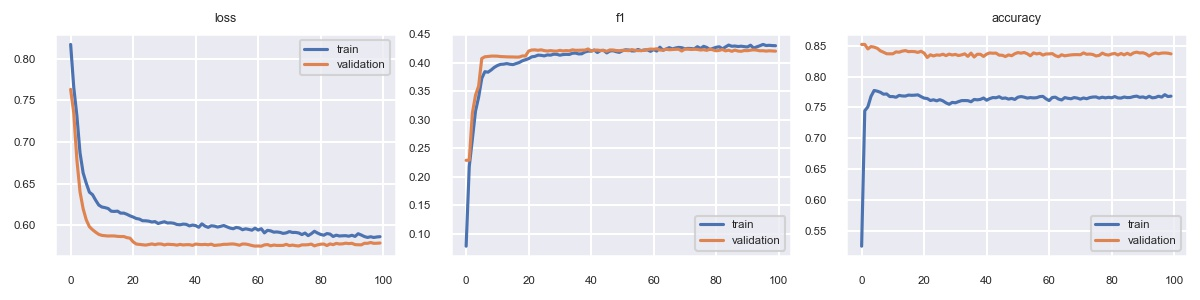
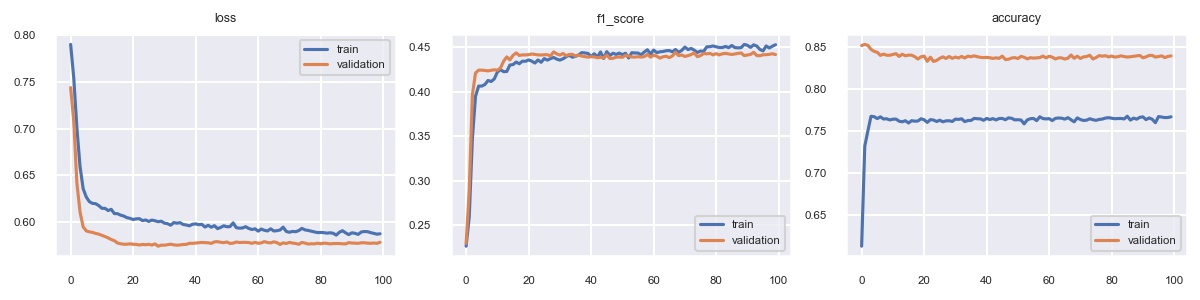
update single rnn build
update single rnn build  and example

diff --git a/behavior_model_func.py b/behavior_model_func.py
@@ -162,6 +162,25 @@ def one_hot_decode(encoded_seq):
 #     pred = [np.random.multinomial(1,vector) for vector in encoded_seq]
 #     return [np.argmax(vector) for vector in pred] # returns the index with the max value
 
+# function to adjust the prediction prob between 0 and 1, due to the estimatio of the f1 loss function, sometimes class prob predictions don't exactly sum to 1
+def prob_adjust(y_prob):
+    """
+    ensure probabiltiies fall between 0 and 1 by subtracting small number (0.0001) from the largest probability
+
+    Parameters
+    ----------
+    y_prob : predicted prob of classes
+
+    Returns
+    -------
+    y_prob : adjusted predicted prob of classes
+
+    """
+    y_max = tuple(one_hot_decode(y_prob)) # get max prob class
+    y_adjust = y_prob[range(y_prob.shape[0]), y_max] - 0.00001 # subtract small number from max prob
+    y_prob[range(y_prob.shape[0]), y_max] = y_adjust # replace adjusted prob into data
+    return y_prob # return adjusted prob
+
 ########################
 #### Model building ####
 ########################
@@ -422,9 +441,10 @@ def eval_f1_iter(model, params, train_X, train_y, test_X, test_y, patience=50, m
 #    # avg_val = np.mean(eval_run,axis=0)
 #     return eval_run, np.nan, val_loss, np.nan, train_loss
 
-def build_rnn(train_X, train_y, neurons_n=10, hidden_n=10, lr_rate=0.001, d_rate = 0.2, layers = 1, mtype = 'LSTM'):
+def build_rnn(train_X, train_y, neurons_n=10, hidden_n=10, lr_rate=0.001, d_rate = 0.2, layers = 1, mtype = 'LSTM', loss = 'CCE'):
     """
     Vanilla LSTM for single timestep output prediction (one-to-one or many-to-one)
+    
     Parameters
     ----------
     neurons_n : int,number of neurons, (the default is 10).
@@ -433,6 +453,8 @@ def build_rnn(train_X, train_y, neurons_n=10, hidden_n=10, lr_rate=0.001, d_rate
     d_rate : float, drop out rate (the default is 0.2).
     layers: 1 
     mtype: string, model type (LSTM or GRU only, default is LSTM)
+    loss: string, default is 'CCE' for categorical cross-entropy, other option is 'f1' for f1 loss
+    
     Returns
     -------
     model : model
@@ -451,8 +473,58 @@ def build_rnn(train_X, train_y, neurons_n=10, hidden_n=10, lr_rate=0.001, d_rate
         model.add(Dense(units = hidden_n, activation = 'relu', kernel_initializer =  'he_uniform')) # add dense layer
         model.add(Dropout(rate= d_rate)) # add dropout
     model.add(Dense(units = targets, activation = "softmax", name = 'Output')) # add output layer
-    model.compile(loss = 'categorical_crossentropy', optimizer = Adam(learning_rate = lr_rate), metrics= [F1Score(num_classes=targets, average = 'macro'),'accuracy']) # compile model, set learning rate and metrics
+    if loss == 'CCE':
+        model.compile(loss = 'categorical_crossentropy', optimizer = Adam(learning_rate = lr_rate), metrics= [F1Score(num_classes=targets, average = 'macro'),'accuracy']) # compile model, set learning rate and metrics
+    elif loss == 'f1':
+        model.compile(loss = f1_loss, optimizer = Adam(learning_rate = lr_rate),  metrics= [F1Score(num_classes=targets, average = 'macro'),'accuracy']) # compile model, set learning rate and metrics
+    else:
+        raise Exception ('invalid loss function')
     return model 
+
+def build_ende(train_X, train_y, neurons_n = 10, hidden_n = 10, td_neurons = 10, lr_rate  = 0.001, d_rate = 0.2, layers = 1, mtype = 'LSTM'):
+    """
+    Single encoder-decoder model
+
+    Parameters
+    ----------
+    train_X : training features
+    train_y : training predictions
+    neurons_n : number of neurons. The default is 10.
+    hidden_n : number of hidden neurons. The default is 10.
+    td_neurons : number of timde distributed neurons. The default is 10.
+    lr_rate : Learning rate. The default is 0.001.
+    d_rate : dropout rate. The default is 0.2.
+    layers : number of layers The default is 1.
+    mtype : model type, should be LSTM or GRU. The default is 'LSTM'.
+
+    Returns
+    -------
+    model : compiled model
+
+    """
+    lookback = train_X.shape[1] # set lookback
+    features = train_X.shape[2] # set features
+    n_outputs = train_y.shape[1] # set prediction timesteps
+    targets = train_y.shape[2] # set number of targets per timesteps
+	# define model
+    model = Sequential() # create empty sequential model
+    model.add(Masking(mask_value = -1, input_shape = (lookback, features), name = 'Masking')) # add a masking layer to tell the model to ignore missing values
+    if mtype == 'LSTM': # if the model is an LSTM
+        model.add(LSTM(units =neurons_n, input_shape = (lookback,features), name = 'LSTM')) # set the RNN type
+    else: # otherwise set the GRU as the model type
+        model.add(GRU(units =neurons_n, input_shape = (lookback,features), name = 'GRU')) # set the RNN type
+    for i in range(layers): # for each layer  
+        model.add(Dense(units = hidden_n, activation = 'relu', kernel_initializer =  'he_uniform')) # add a dense layer 
+        model.add(Dropout(rate= d_rate)) # and add a dropout layer
+    model.add(RepeatVector(n_outputs)) # repeats encoder context for each prediction timestep
+    if mtype == 'LSTM': # if the model type is LSTM 
+        model.add(LSTM(units =neurons_n, input_shape = (lookback,features), return_sequences=True)) # set the RNN type
+    else: # else set the layer to GRU
+        model.add(GRU(units =neurons_n, input_shape = (lookback,features), return_sequences = True)) # set the RNN type
+    model.add(TimeDistributed(Dense(units = td_neurons, activation='relu'))) # used to make sequential predictions, applies decoder fully connected layer to each prediction timestep
+    model.add(TimeDistributed(Dense(targets, activation = "softmax"))) # applies output layer to each prediction timestep
+    model.compile(loss = 'categorical_crossentropy', optimizer = Adam(learning_rate = lr_rate), metrics = 'accuracy', sample_weight_mode = 'temporal') # compile the model
+    return model
 
 def hyp_rnn_nest(params, features, targets):
     """
@@ -754,7 +826,7 @@ def hyperoptimizer_ende(params):
 ##########################
 #### Model evaluation ####
 ##########################
-def monitoring_plots(result):
+def monitoring_plots(result, metrics):
     """
     plot the training and validation loss, f1 and accuracy
 
@@ -766,27 +838,34 @@ def monitoring_plots(result):
     -------
     monitoring plots outputted
     """
-    fig, ax = pyplot.subplots(1,3, figsize = (8,2))
-    # plot the loss
-    pyplot.subplot(1,3,1)
-    pyplot.plot(result.history['loss'], label='train')
-    pyplot.plot(result.history['val_loss'], label='validation')
-    pyplot.legend()
-    pyplot.title('loss')
+    n = len(metrics)
+    fig, ax = pyplot.subplots(1,n, figsize = (2*n+2,2))
+    for i in range(n):
+        pyplot.subplot(1,n,i+1)
+        pyplot.plot(result.history[metrics[i]], label='train')
+        pyplot.plot(result.history['val_'+metrics[i]], label='validation')
+        pyplot.legend()
+        pyplot.title(metrics[i])
+    # # plot the loss
+    # pyplot.subplot(1,3,1)
+    # pyplot.plot(result.history['loss'], label='train')
+    # pyplot.plot(result.history['val_loss'], label='validation')
+    # pyplot.legend()
+    # pyplot.title('loss')
         
-    # plot the f1 score
-    pyplot.subplot(1,3,2)
-    pyplot.plot(result.history['f1_score'], label='train')
-    pyplot.plot(result.history['val_f1_score'], label='validation')
-    pyplot.legend()
-    pyplot.title('f1')
+    # # plot the f1 score
+    # pyplot.subplot(1,3,2)
+    # pyplot.plot(result.history['f1_score'], label='train')
+    # pyplot.plot(result.history['val_f1_score'], label='validation')
+    # pyplot.legend()
+    # pyplot.title('f1')
     
-    # plot the accuracy score
-    pyplot.subplot(1,3,3)
-    pyplot.plot(result.history['accuracy'], label='train')
-    pyplot.plot(result.history['val_accuracy'], label='validation')
-    pyplot.legend()
-    pyplot.title('accuracy')
+    # # plot the accuracy score
+    # pyplot.subplot(1,3,3)
+    # pyplot.plot(result.history['accuracy'], label='train')
+    # pyplot.plot(result.history['val_accuracy'], label='validation')
+    # pyplot.legend()
+    # pyplot.title('accuracy')
     fig.tight_layout()
     return fig
     
@@ -829,6 +908,7 @@ def confusion_mat(y, y_pred):
     pyplot.ylabel('True label', fontsize = 7)
     pyplot.xlabel('Predicted label', fontsize = 7)
     fig.tight_layout()
+    pyplot.show(block=True)
     return fig
 
 def class_report(y, y_pred):

diff --git a/single_vanilla_rnn.py b/single_vanilla_rnn.py
@@ -267,39 +267,28 @@ model.summary()
 # Non-trainable params: 0
 # _________________________________________________________________
 
-# generate a callback for early stopping to prevent overfitting on training data
-early_stopping = EarlyStopping(monitor='val_loss', # monitor validation loss
-                               patience = 25, # stop if loss doesn't improve after 5 epochs
-                               mode = 'min', # minimize validation loss 
-                               restore_best_weights=True, # restore the best weights
-                               verbose=1) # print progress
-
-# generate sample weights
-sweights = bmf.get_sample_weights(train_y, weights)
-
 # fit the model
-history = model.fit(train_X, 
+history1 = model.fit(train_X, 
                     train_y, 
                     epochs = 100, 
                     batch_size = 512,
                     shuffle=False,
                     validation_data=(test_X,test_y),
-                    sample_weight = sweights,
-                    class_weight=None,
-                  #  callbacks = [early_stopping],
+                    class_weight=weights,
                     verbose = 2)
 
 history.history.keys()
-# early stopping activated, stopped after 61 epochs
 # monitor the results
-mon_plots3 = bmf.monitoring_plots(history, ['loss','f1','accuracy'])
+mon_plots3 = bmf.monitoring_plots(history, ['loss','f1_score','accuracy'])
 mon_plots3.savefig(path+'manual_vanilla_rnn_gru_monitoring_f1_loss.jpg', dpi=150) # save monitoring plot
 # loss and performance curves are less noisy
+# 100 epochs seems reasonable
 
 loss, f1, accuracy = model.evaluate(test_X, test_y) # evaluate the model (also could just extract from the fit directly)
-# f1_loss: 0.671
-# f1: 0.330
-# accuracy: 0.837
+# f1_loss: 0.667
+# f1: 0.441
+# accuracy: 0.840
+
 y_prob = model.predict(test_X) # get prediction prob for each class
 y_prob[0:10,:] # print subset
 # array([[1.00000000e+00, 2.08646195e-15, 1.93955227e-10, 3.30982013e-11],
@@ -314,6 +303,8 @@ y_prob[0:10,:] # print subset
 #        [2.93278772e-17, 1.00000000e+00, 8.81333292e-15, 1.02930872e-10]],
 #       dtype=float32)
 
+# ensure row probabilities equal to 1, might slightly deviate due to approximation of f1_loss function
+# subtract a small amount from the largest class probability per row
 y_proba = bmf.prob_adjust(y_prob)
 y_proba[0:10,:]
 # array([[9.99989986e-01, 2.08646195e-15, 1.93955227e-10, 3.30982013e-11],
@@ -337,5 +328,5 @@ y_pred[0:10] # view subset of predictions
 # [0, 1, 3, 1, 1, 1, 1, 1, 1, 1] 3 predictions differ from target, same performance of previous gru model based on accuracy of first 10 records
 gru_score_f1, _, _, _ = bmf.result_summary(test_y, y_prob, path, 'manual_vanilla_rnn_gru_evaluation_f1')
 # view output file results
-# gru_score_f1 = 0.435, higher f1 score compared to lstm and gru model trained using categorical cross entropy loss function
+# gru_score_f1 = 0.442, higher f1 score compared to lstm and gru model trained using categorical cross entropy loss function
 # also outperforms models trained using categorical cross entropy loss function based on overall and class specific precision, recall and accuracy
